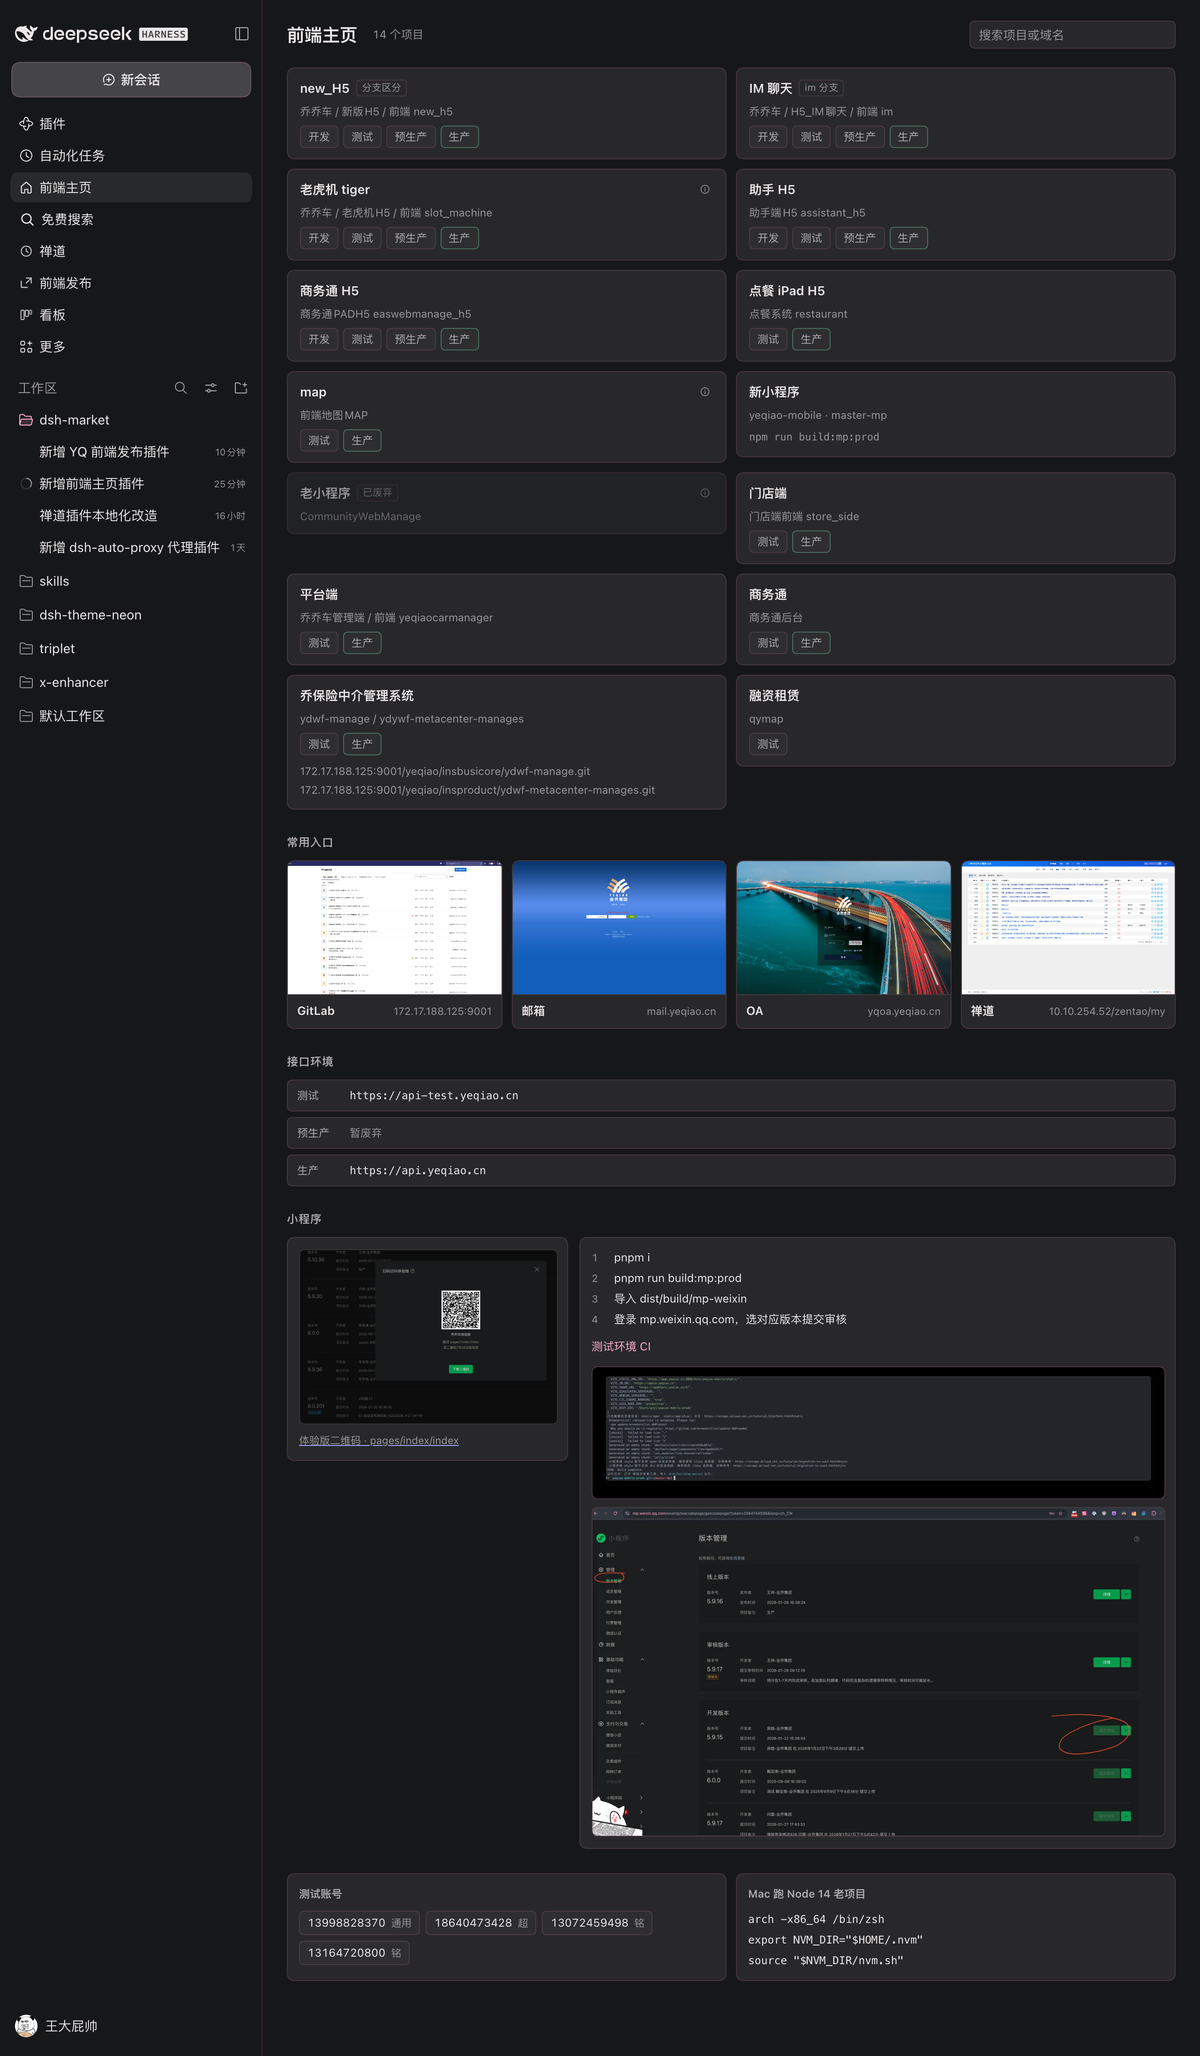
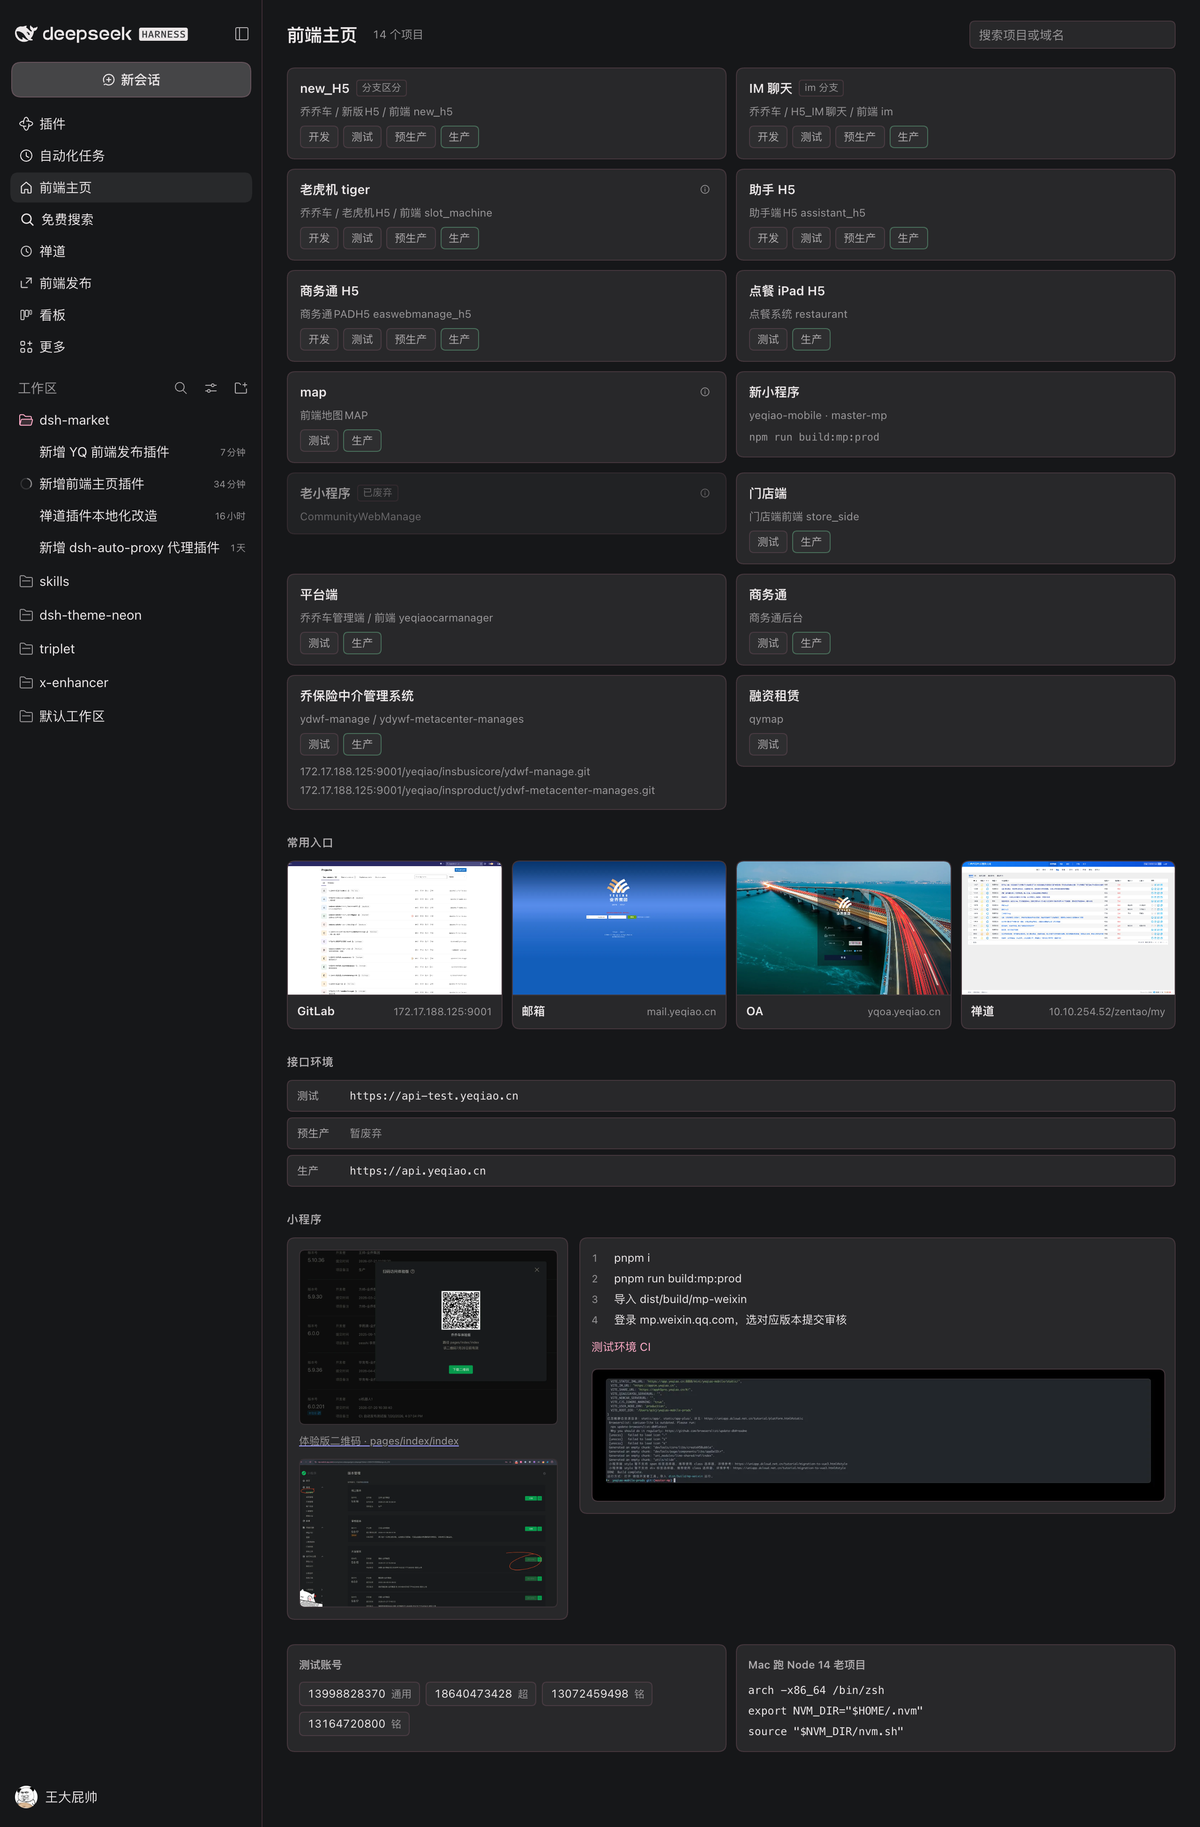
fix(fe-homepage): 小程序区块截图按列对齐，缩略图同步更新

diff --git a/plugins/dsh-plugin-fe-homepage/lib/client.js b/plugins/dsh-plugin-fe-homepage/lib/client.js
@@ -586,10 +586,10 @@ a.feh-api:hover .feh-api-url { color: var(--dsw-alias-link); text-decoration: un
   background: var(--dsw-alias-bg-layer-2);
   color: var(--dsw-alias-label-primary);
 }
-.feh-shots { display: flex; flex-direction: column; gap: 8px; }
-.feh-shots img {
-  width: 100%;
+.feh-mp-shot {
   display: block;
+  width: 100%;
+  margin-top: 2px;
   border-radius: 8px;
   border: 1px solid var(--dsw-alias-border-l2);
 }
@@ -949,6 +949,12 @@ a.feh-api:hover .feh-api-url { color: var(--dsw-alias-link); text-decoration: un
                         },
                         h('img', { src: asset('miniapp-qr.webp'), alt: '小程序体验版二维码' }),
                         h('span', { className: 'feh-cap' }, '体验版二维码 · pages/index/index'),
+                        h('img', {
+                          className: 'feh-mp-shot',
+                          src: asset('miniapp-mp.webp'),
+                          alt: '微信公众平台版本管理',
+                          loading: 'lazy',
+                        }),
                       ),
 
                       h(
@@ -961,20 +967,12 @@ a.feh-api:hover .feh-api-url { color: var(--dsw-alias-link); text-decoration: un
                           target: '_blank',
                           rel: 'noreferrer noopener',
                         }, '测试环境 CI'),
-                        h(
-                          'div',
-                          { className: 'feh-shots' },
-                          h('img', {
-                            src: asset('miniapp-build.webp'),
-                            alt: '构建输出',
-                            loading: 'lazy',
-                          }),
-                          h('img', {
-                            src: asset('miniapp-mp.webp'),
-                            alt: '微信公众平台版本管理',
-                            loading: 'lazy',
-                          }),
-                        ),
+                        h('img', {
+                          className: 'feh-mp-shot',
+                          src: asset('miniapp-build.webp'),
+                          alt: '构建输出',
+                          loading: 'lazy',
+                        }),
                       ),
                     ),
                   ),
